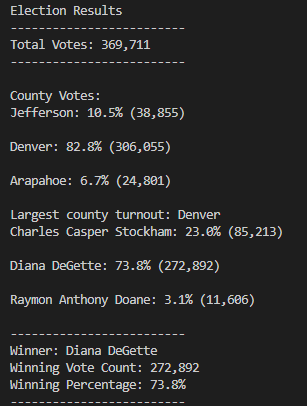
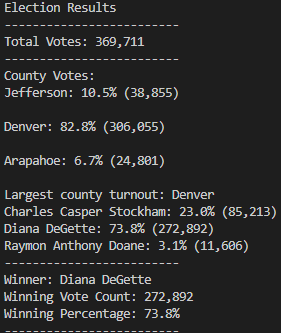
changes to images

diff --git a/PyPoll_Challenge.py b/PyPoll_Challenge.py
@@ -85,7 +85,7 @@ with open("election_results.txt", "w") as txt_file:
         f"\nElection Results\n"
         f"-------------------------\n"
         f"Total Votes: {total_votes:,}\n"
-        f"-------------------------\n\n"
+        f"-------------------------\n"
         f"County Votes:\n")
     print(election_results, end="")
 
@@ -118,6 +118,7 @@ with open("election_results.txt", "w") as txt_file:
     #largest_county = winning_county
     print("Largest county turnout:", largest_county)
    
+   
 
     #8: Save the county with the largest turnout to a text file.
     txt_file.write(
@@ -133,7 +134,7 @@ with open("election_results.txt", "w") as txt_file:
         votes = candidate_votes.get(candidate_name)
         vote_percentage = float(votes) / float(total_votes) * 100
         candidate_results = (
-            f"{candidate_name}: {vote_percentage:.1f}% ({votes:,})\n")
+            f"{candidate_name}: {vote_percentage:.1f}% ({votes:,})")
 
         # Print each candidate's voter count and percentage to the
         # terminal.
